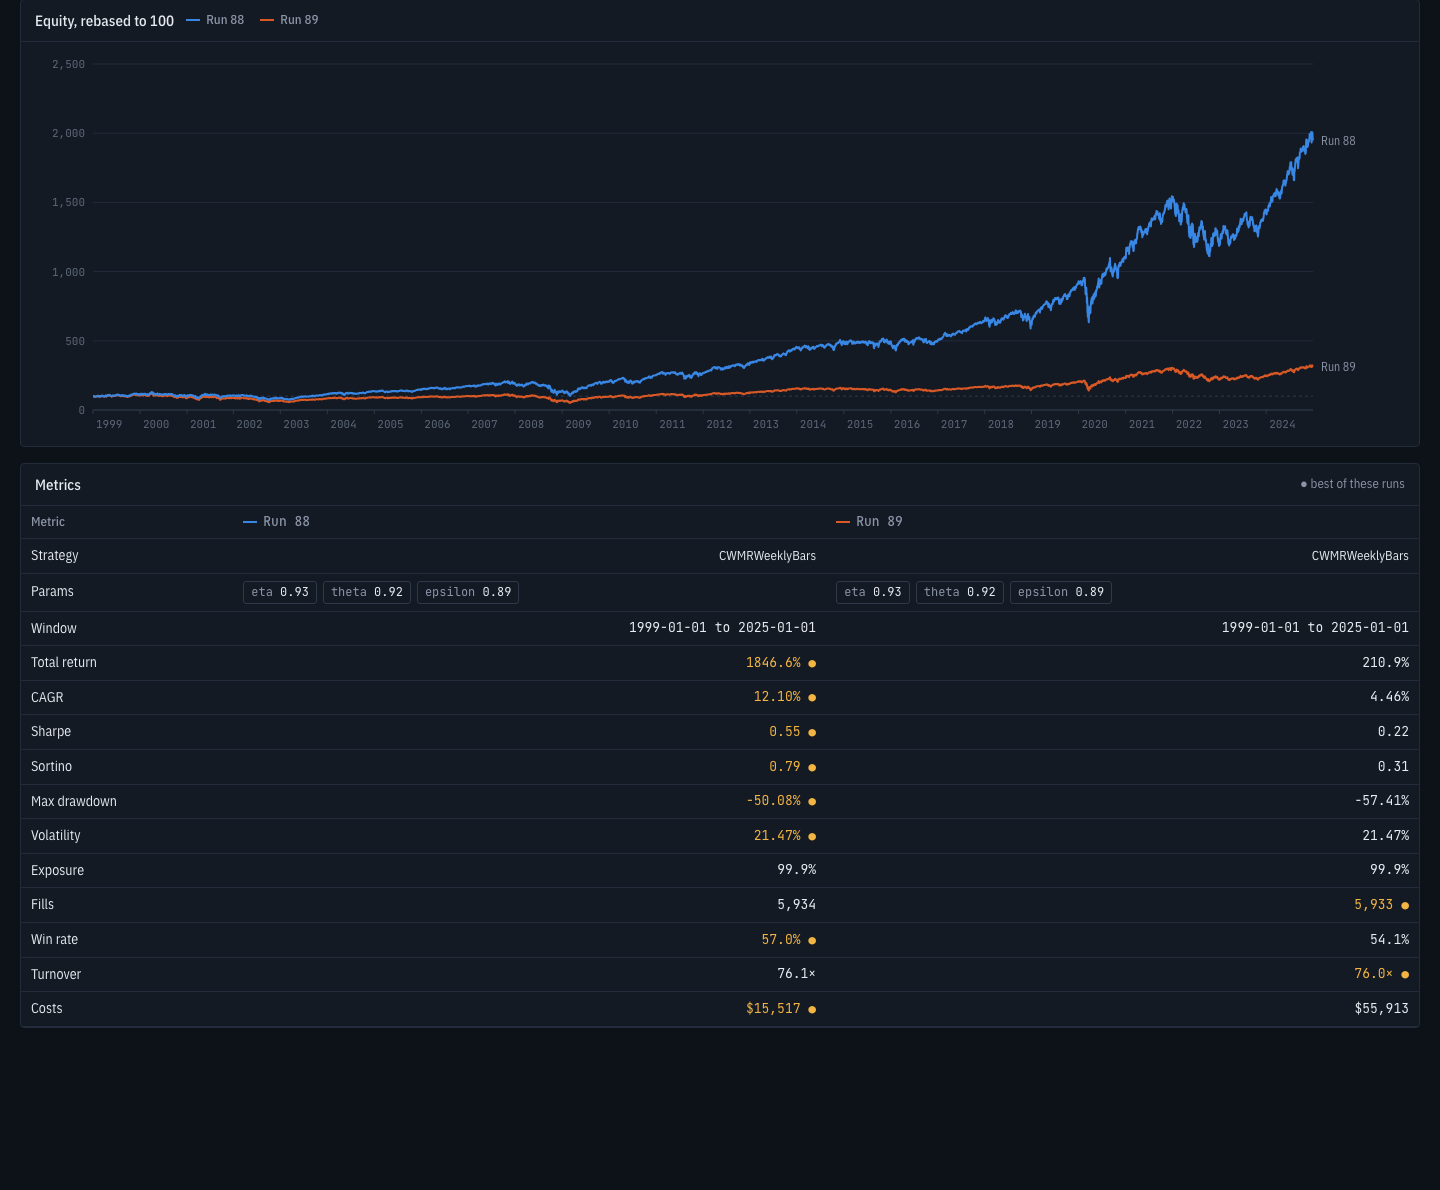
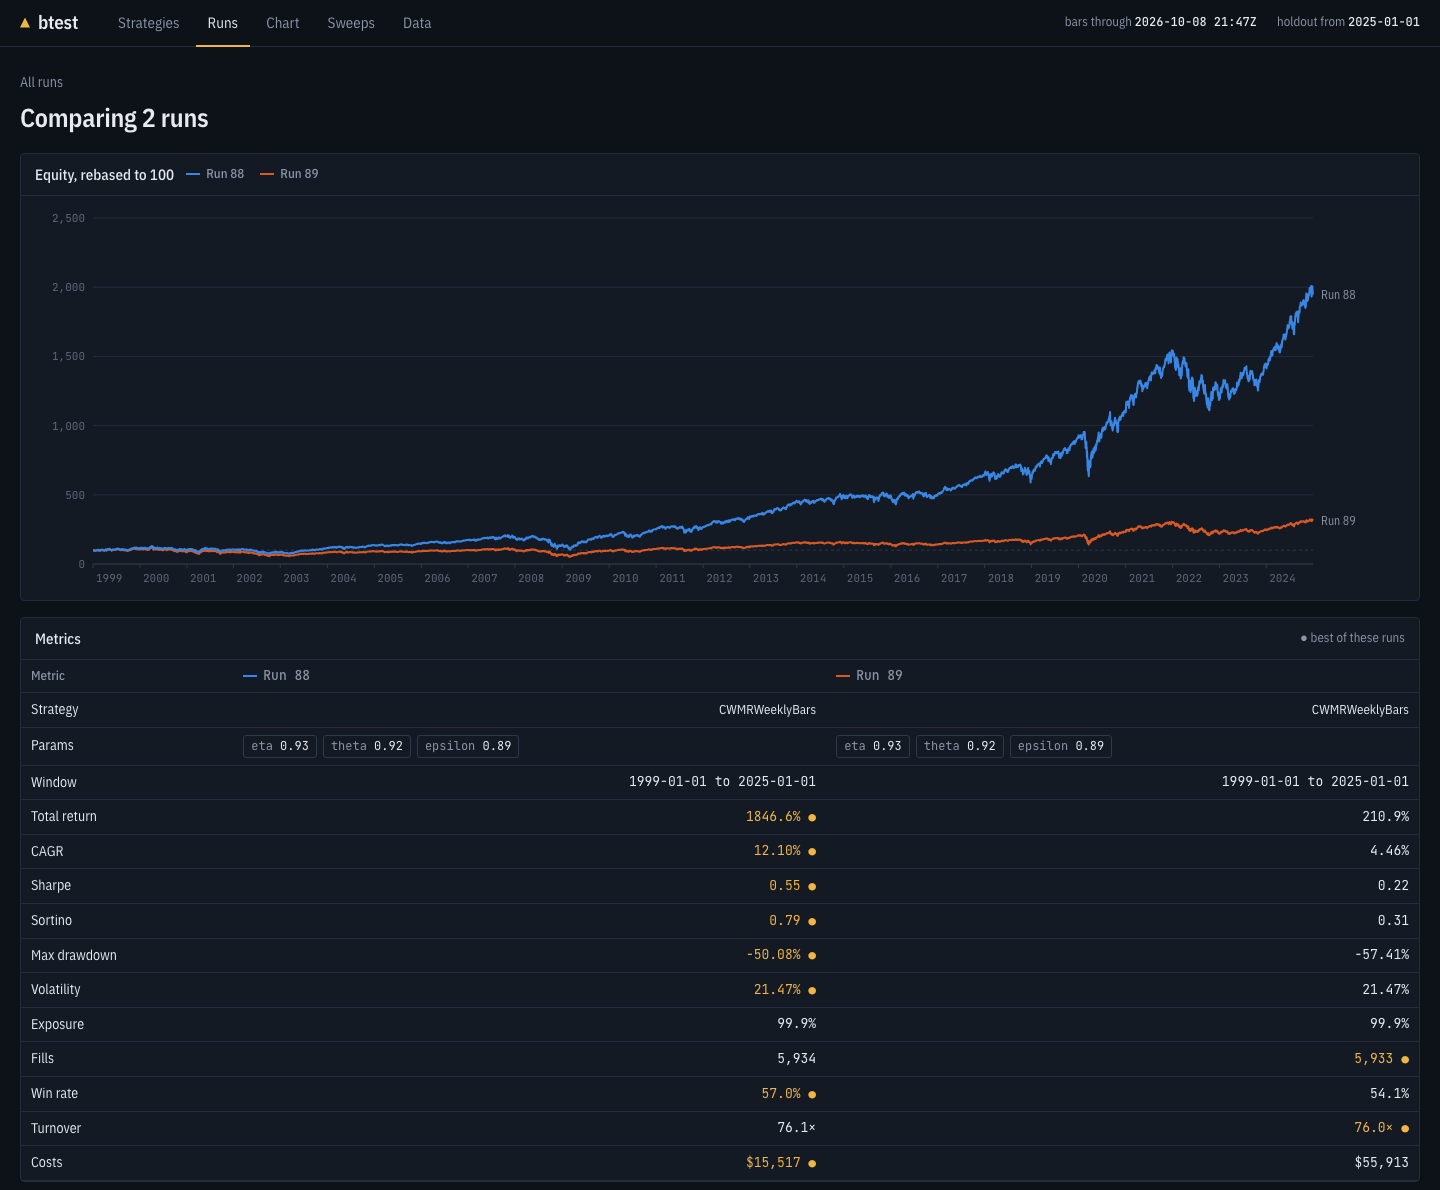
README: workflow diagram as an image, shorter top picture, sweep and compare screenshots cropped from the top

diff --git a/README.md b/README.md
@@ -5,7 +5,7 @@ strategy, run it on years of real US market data with realistic trading costs, c
 simply holding the market, and, if it still looks good, paper-trade it on the same schedule the
 backtest assumed.
 
-![A backtest result: the strategy's equity against SPY, its drawdowns, and its return in every month](docs/images/run-analysis.png)
+![A backtest result: the strategy's equity against SPY, and how far each fell from its previous high](docs/images/equity.png)
 
 ## Who this is for
 
@@ -17,15 +17,7 @@ backtest assumed.
 
 ## How a strategy goes from idea to paper trading
 
-```mermaid
-flowchart LR
-    A[Write a strategy<br/>in the lab] --> B[Backtest on<br/>historical data]
-    B --> C[Compare with SPY<br/>and other runs]
-    C --> D[Try settings on<br/>data before 2025]
-    D --> E[Test once on the<br/>untouched holdout]
-    E --> F[Paper-trade with<br/>the same timing]
-    F --> G[Check live fills<br/>against the backtest]
-```
+![From idea to paper trading: write, backtest, compare, try settings, test once on the holdout, paper-trade, check live fills](docs/images/workflow.svg)
 
 Each step has a screen on the website.
 
@@ -43,9 +35,10 @@ hold), and a price chart with every buy and sell.
 
 ![A run page: total return, CAGR, Sharpe, drawdown and fills, with the trades on a price chart](docs/images/run-detail.png)
 
-Below that are the equity curve, the drawdowns and a month-by-month table (the picture at the
-top of this page). A strategy can beat SPY overall and still lose half its value along the way;
-the drawdown chart shows that.
+Below that are the equity curve, the drawdowns and a month-by-month table. A strategy can beat
+SPY overall and still lose half its value along the way; the drawdown chart shows that.
+
+![Equity against SPY, drawdowns, and the return in every month and year](docs/images/run-analysis.png)
 
 ### Compare runs
 
